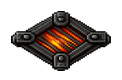
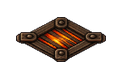
Refine elemental trap perspective and material

Changed region(s): [[0.0738, 0.125, 0.9098, 0.9]]

diff --git a/tools/generate_trap_pressure_plate_preview.py b/tools/generate_trap_pressure_plate_preview.py
@@ -9,7 +9,7 @@ from PIL import Image, ImageDraw, ImageFont
 ROOT = Path(__file__).resolve().parents[1]
 TRAP_DIR = ROOT / "assets/art/traps"
 FLOOR_DIR = ROOT / "assets/placeholders/tiles"
-OUTPUT = ROOT / "output/visual_proofs/elemental_pressure_plates_on_actual_tiles.png"
+OUTPUT = ROOT / "output/visual_proofs/elemental_pressure_plates_perspective_fit_on_actual_tiles.png"
 
 ELEMENTS = (
     ("FIRE", "fire", 1),
@@ -84,7 +84,7 @@ def build_sheet() -> Image.Image:
     draw.text((MARGIN, 22), "ELEMENTAL PRESSURE PLATES", font=_font(), fill=TEXT)
     draw.text(
         (MARGIN, 46),
-        "122 x 80 transparent drop-in assets, shown at 3x nearest-neighbor scale",
+        "122 x 80 transparent assets with a 90 x 45 isometric footprint, shown at 3x",
         font=_font(),
         fill=MUTED_TEXT,
     )
